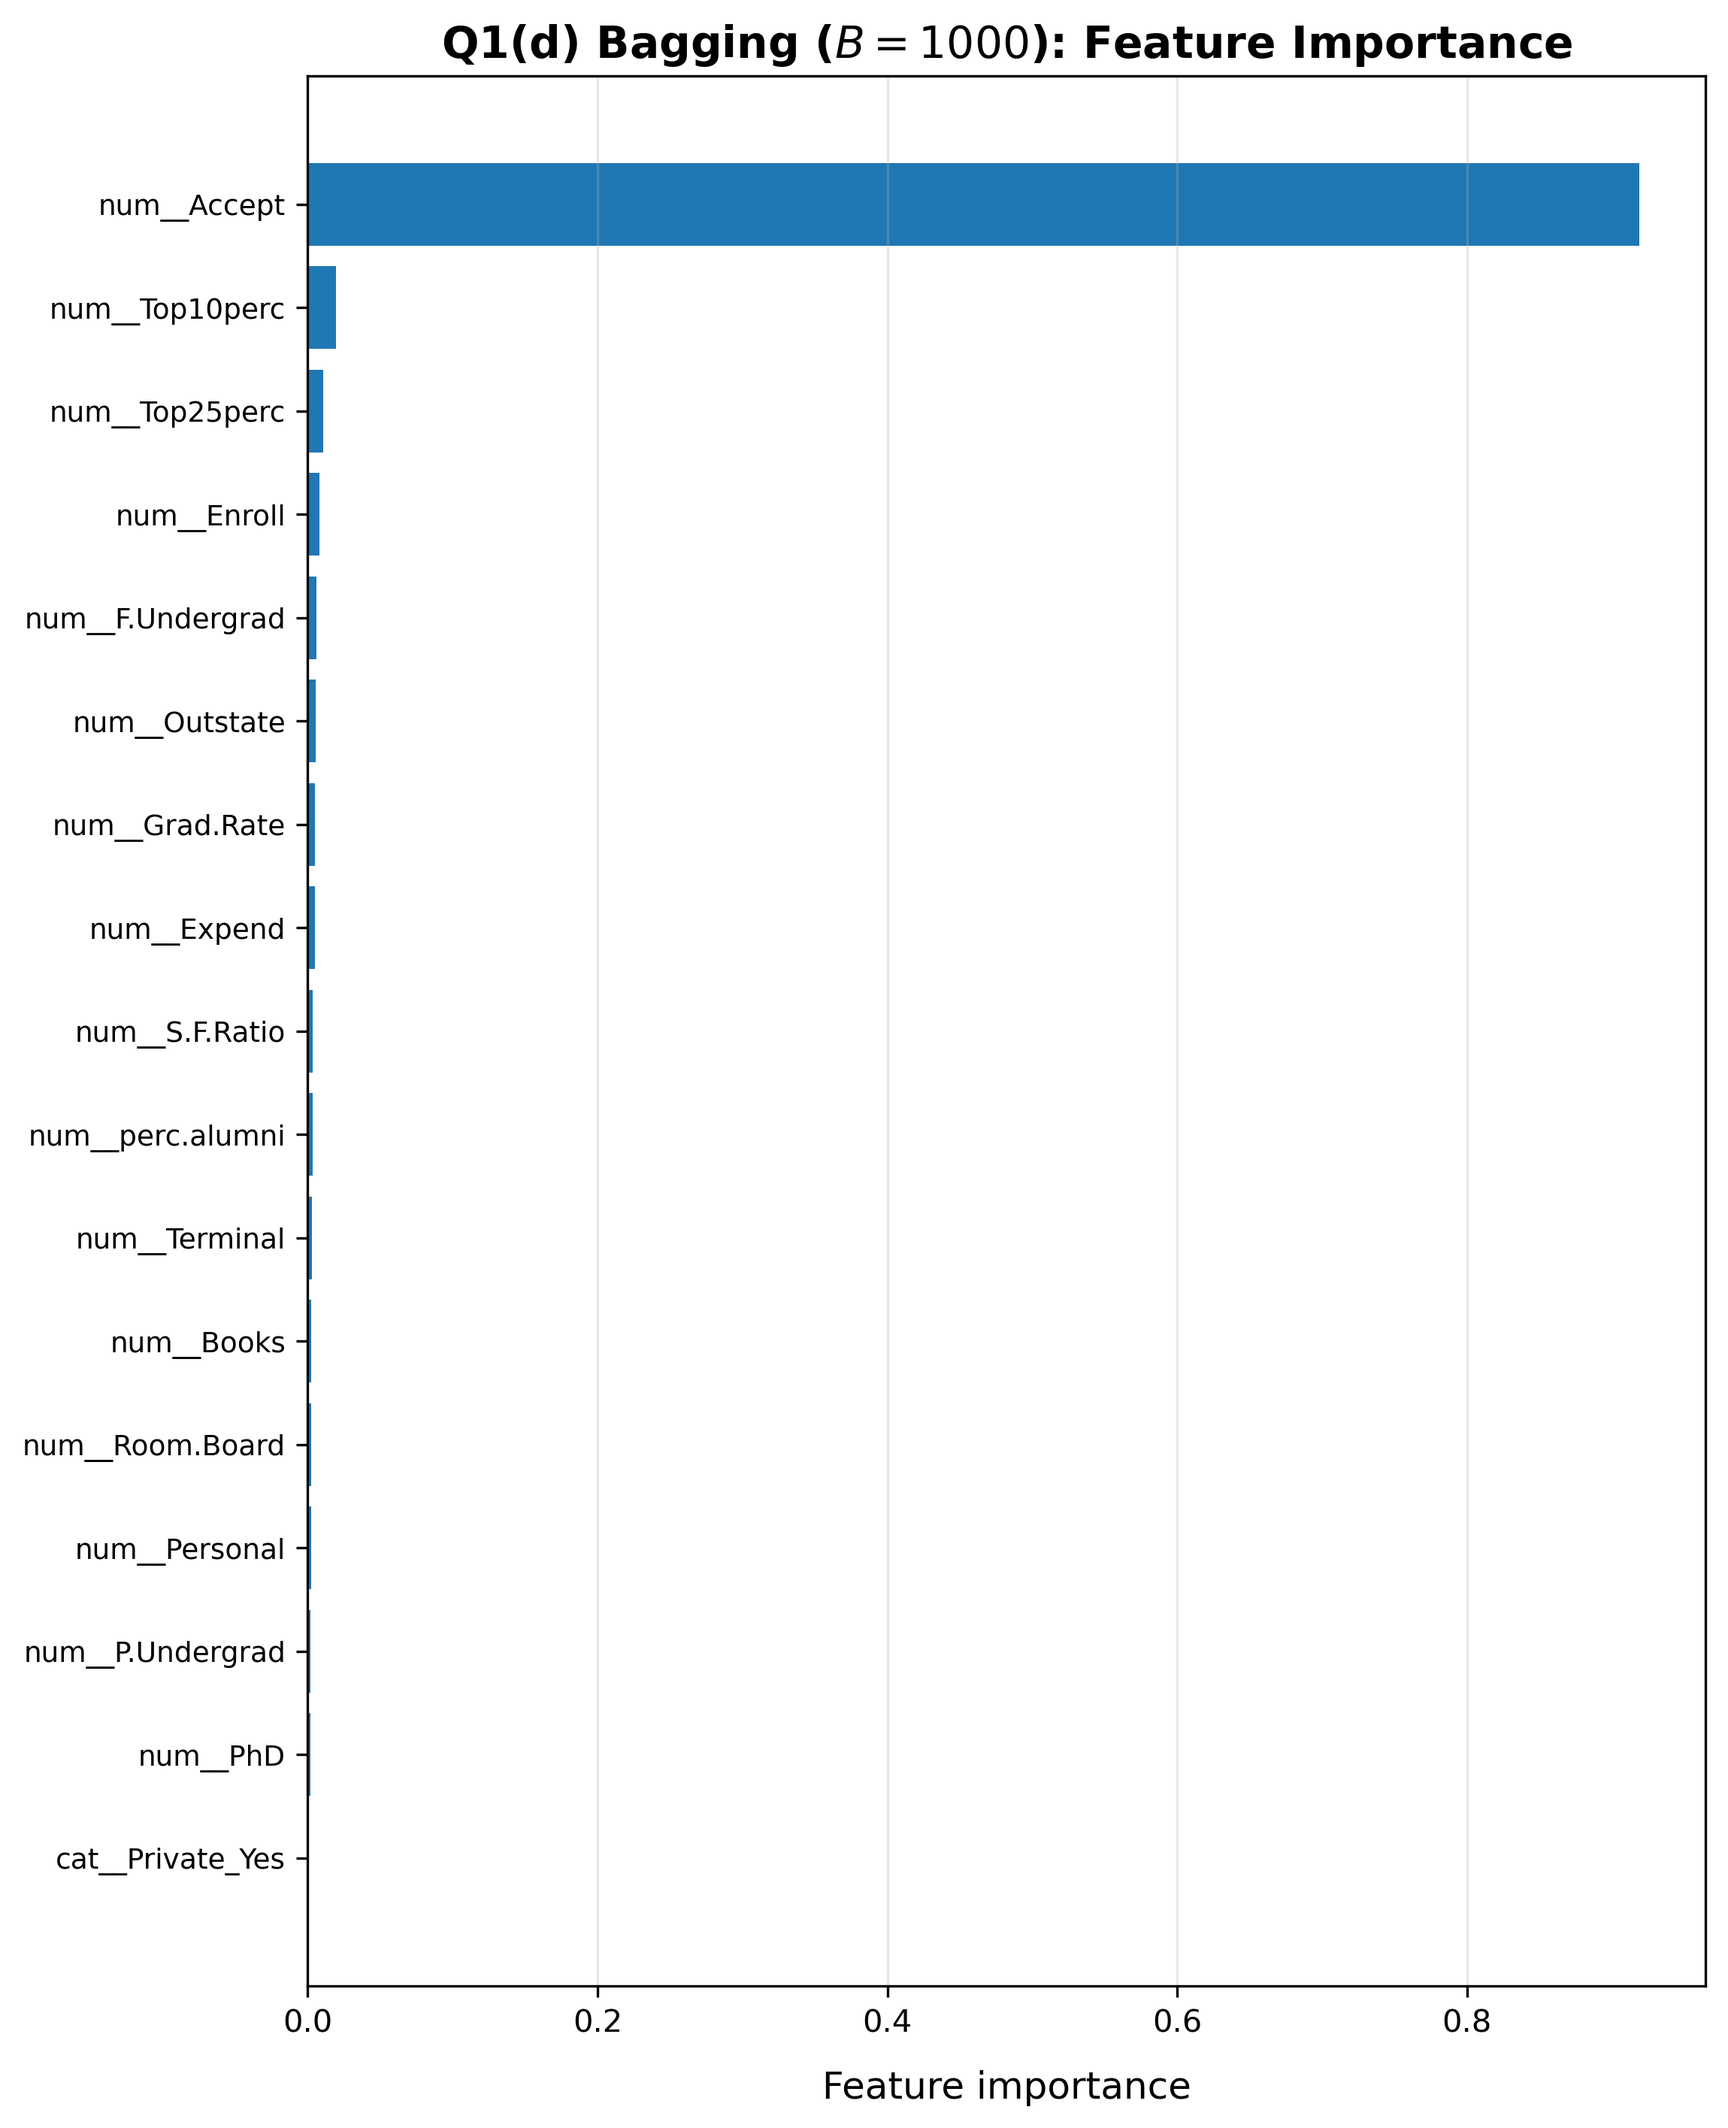
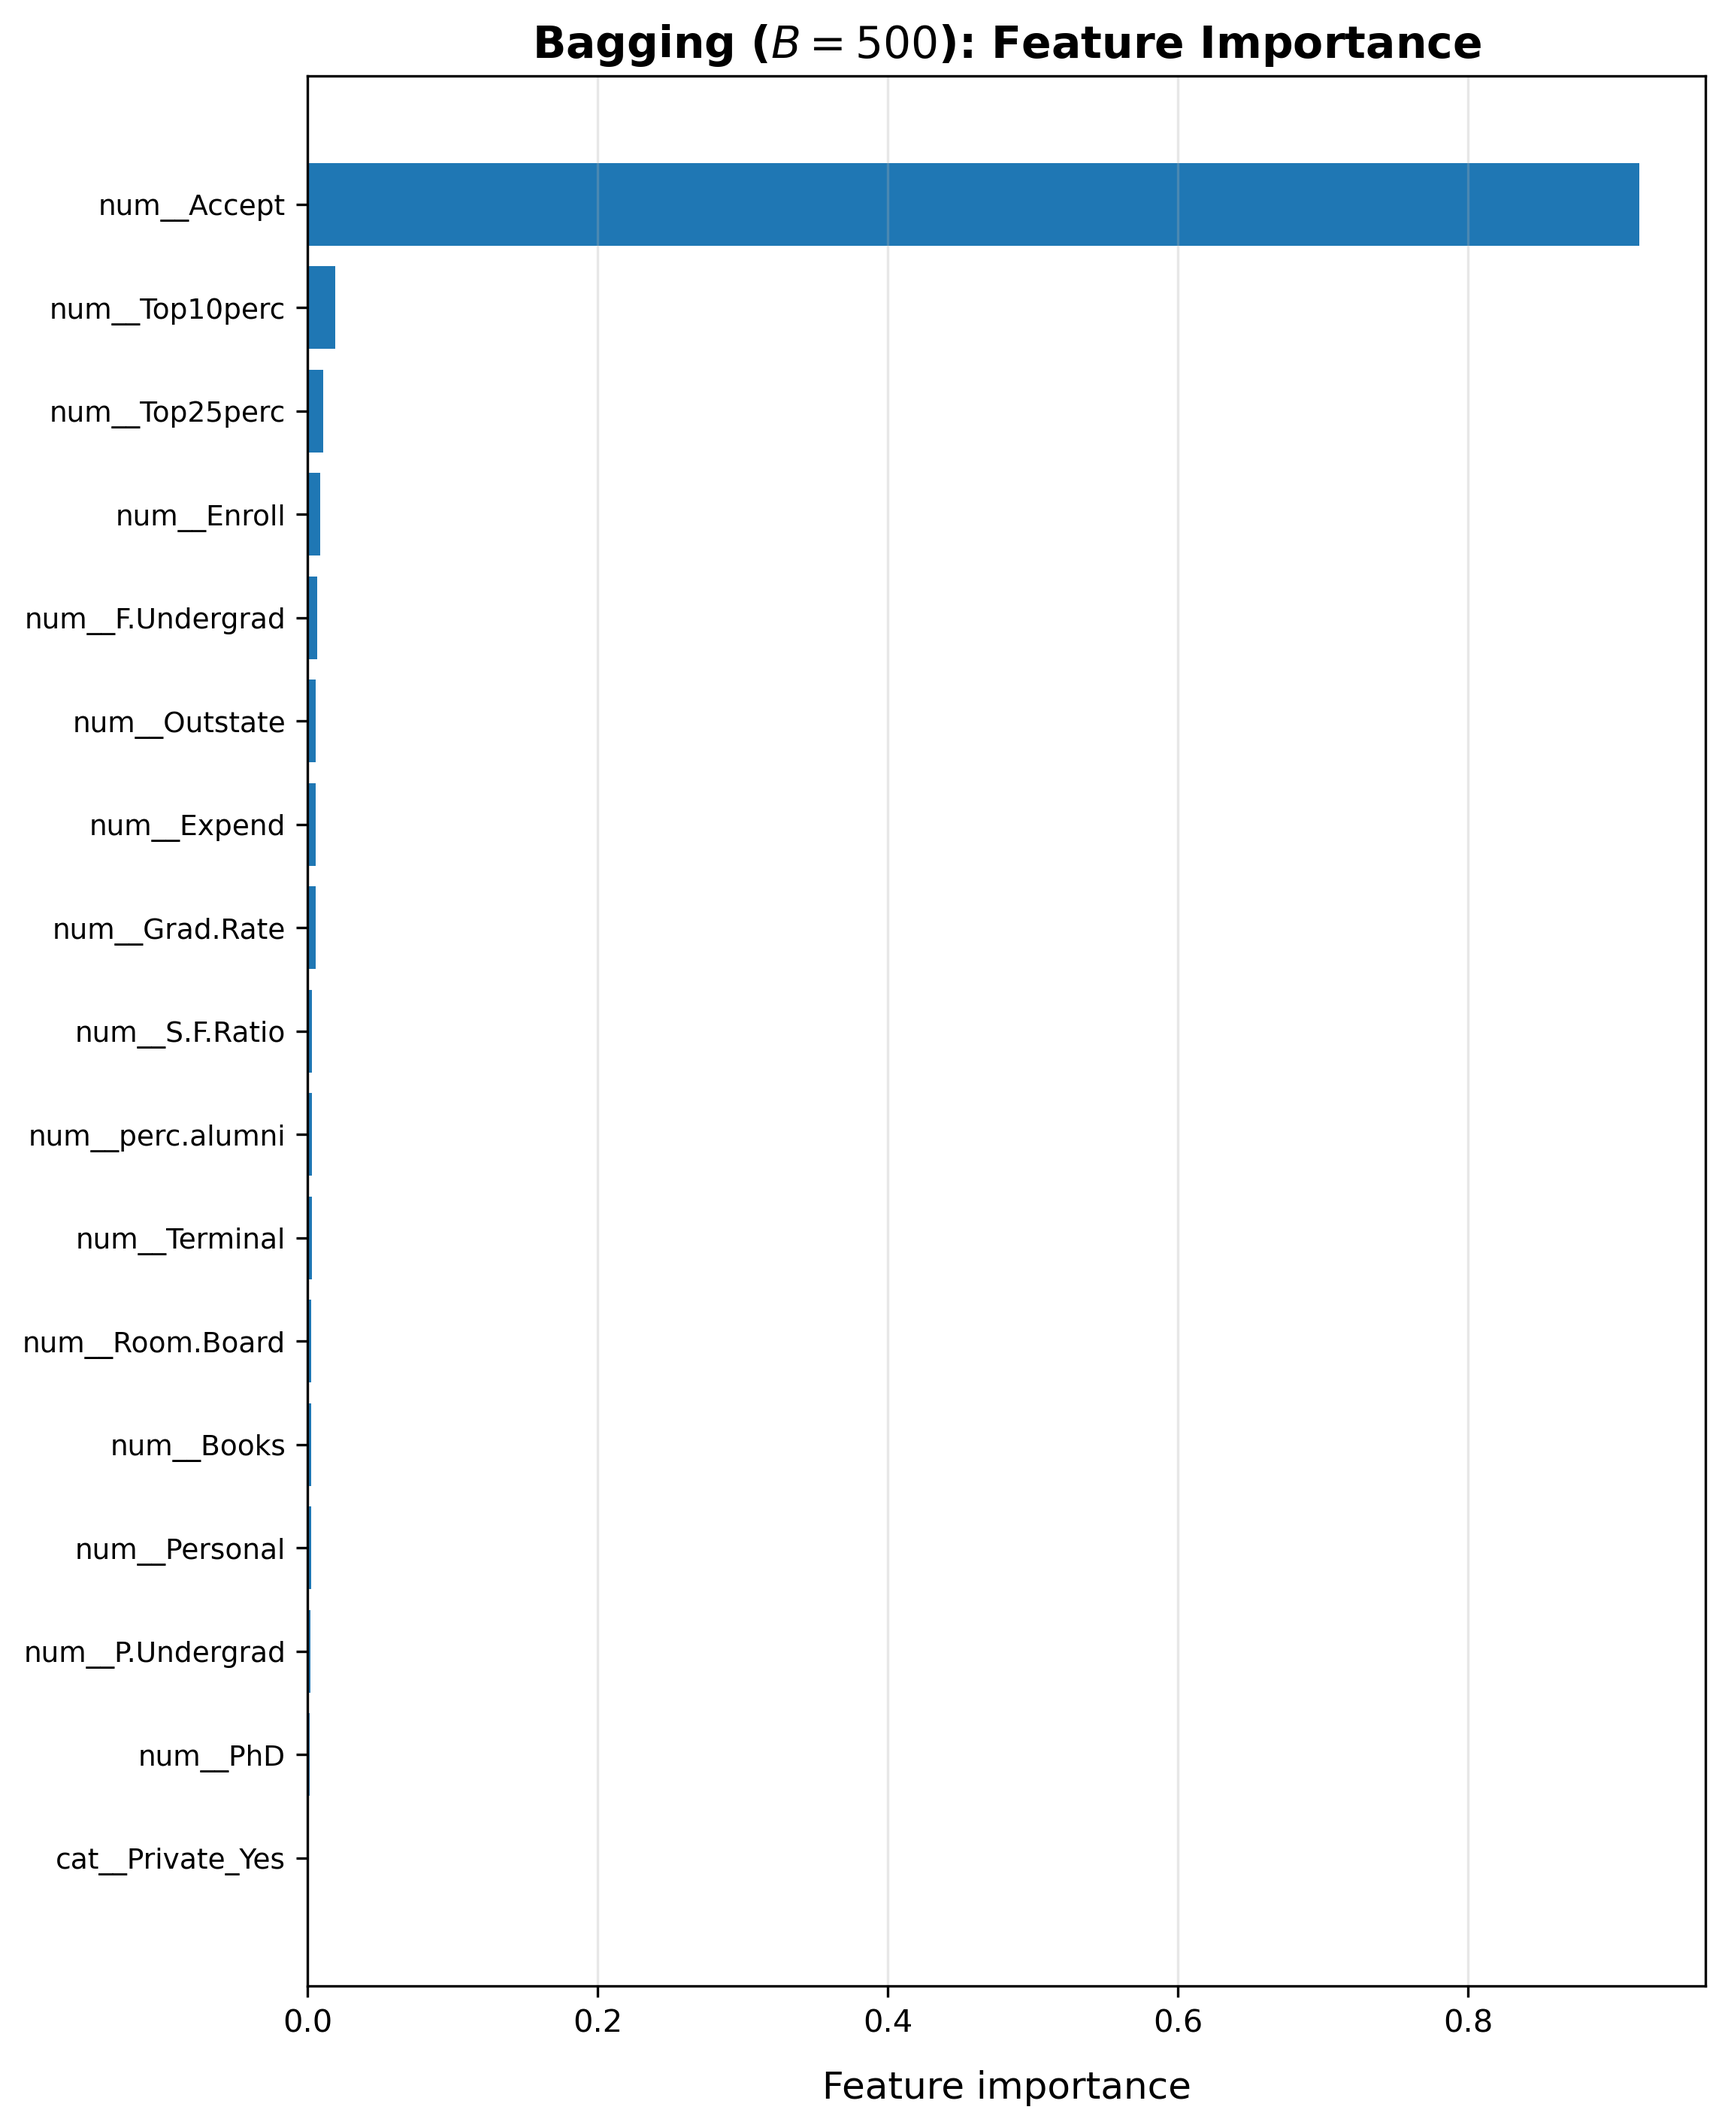
Q2d: changed var imp plot and table

diff --git a/reports/tables/q1d_bagging_importance.tex b/reports/tables/q1d_bagging_importance.tex
@@ -4,27 +4,27 @@
 \toprule
 Predictor & Importance \\
 \midrule
-num\_\_Accept & 0.9187 \\
-num\_\_Top10perc & 0.0194 \\
+num\_\_Accept & 0.9178 \\
+num\_\_Top10perc & 0.0191 \\
 num\_\_Top25perc & 0.0107 \\
-num\_\_Enroll & 0.0081 \\
-num\_\_F.Undergrad & 0.0060 \\
-num\_\_Outstate & 0.0056 \\
-num\_\_Grad.Rate & 0.0052 \\
-num\_\_Expend & 0.0051 \\
-num\_\_S.F.Ratio & 0.0034 \\
-num\_\_perc.alumni & 0.0032 \\
-num\_\_Terminal & 0.0031 \\
-num\_\_Books & 0.0027 \\
-num\_\_Room.Board & 0.0026 \\
-num\_\_Personal & 0.0023 \\
-num\_\_P.Undergrad & 0.0020 \\
-num\_\_PhD & 0.0017 \\
+num\_\_Enroll & 0.0086 \\
+num\_\_F.Undergrad & 0.0066 \\
+num\_\_Outstate & 0.0057 \\
+num\_\_Expend & 0.0055 \\
+num\_\_Grad.Rate & 0.0054 \\
+num\_\_S.F.Ratio & 0.0031 \\
+num\_\_perc.alumni & 0.0031 \\
+num\_\_Terminal & 0.0030 \\
+num\_\_Room.Board & 0.0027 \\
+num\_\_Books & 0.0026 \\
+num\_\_Personal & 0.0022 \\
+num\_\_P.Undergrad & 0.0021 \\
+num\_\_PhD & 0.0015 \\
 cat\_\_Private\_Yes & 0.0002 \\
 \bottomrule
 \end{tabular}
 \end{center}
 \vspace{-5pt}
-\caption{Top predictors by feature importance for bagging regression trees ($B=1000$).}
+\caption{Top predictors by feature importance for bagging regression trees ($B=500$).}
 \label{tab:q1d-bagging-importance}
 \end{table}
